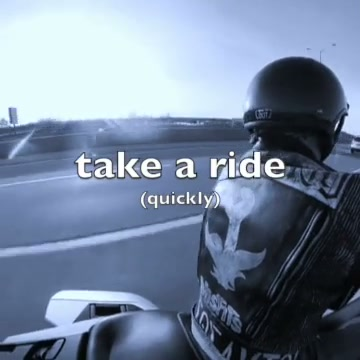
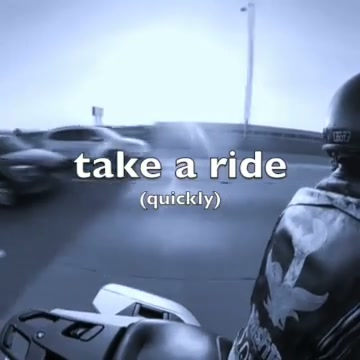
Recruiter review: 10 improvements to information hierarchy and UX
1. Hero headline: value prop ("I solve adoption problems") replaces name
2. Above-fold CTAs: "Let's Talk" + "See the Work" buttons in hero
3. Bio: merged two redundant paragraphs into one tight paragraph
4. LinkedIn: added to desktop nav
5. Subtitle: shortened to "Staff Product Designer"
6. Video poster: better frame at 3s showing road
7. Thios: relabeled as "Between-Roles Venture"
8. Flagship: Deere card gets accent left border
9. Experience: featured rows get bolder weight
10. Mobile: theme bar hidden (available in hamburger menu only)

diff --git a/styles.css b/styles.css
@@ -2908,6 +2908,114 @@ html:not([data-theme]) .theme-era-btn.active {
 }
 
 /* ========================================
+   Hero Name (smaller, above headline)
+   ======================================== */
+.hero-name {
+    font-family: var(--font-readable);
+    font-size: 12px;
+    letter-spacing: 0.2em;
+    color: var(--color-text-muted);
+    margin: 0 0 8px 0;
+    text-transform: uppercase;
+}
+
+/* ========================================
+   Hero CTA Buttons
+   ======================================== */
+.hero-cta-row {
+    display: flex;
+    gap: 12px;
+    margin: 20px 0 24px 0;
+    flex-wrap: wrap;
+}
+
+.hero-cta-primary {
+    display: inline-block;
+    font-family: var(--font-display);
+    font-size: 13px;
+    text-transform: uppercase;
+    letter-spacing: 1px;
+    padding: 12px 28px;
+    background-color: var(--color-primary);
+    color: var(--color-black);
+    border: var(--border-width) solid var(--color-primary);
+    text-decoration: none;
+    transition: all var(--transition-base);
+}
+
+.hero-cta-primary:hover {
+    background-color: var(--color-white);
+    color: var(--color-black);
+    box-shadow: var(--shadow-glow);
+    transform: translateY(-2px);
+}
+
+.hero-cta-secondary {
+    display: inline-block;
+    font-family: var(--font-display);
+    font-size: 13px;
+    text-transform: uppercase;
+    letter-spacing: 1px;
+    padding: 12px 28px;
+    background: transparent;
+    color: var(--color-text-primary);
+    border: var(--border-width) solid var(--color-text-muted);
+    text-decoration: none;
+    transition: all var(--transition-base);
+}
+
+.hero-cta-secondary:hover {
+    border-color: var(--color-primary);
+    color: var(--color-primary);
+    transform: translateY(-2px);
+}
+
+/* ========================================
+   Flagship Case Study Card
+   ======================================== */
+.case-study-flagship {
+    border-left: 4px solid var(--color-primary) !important;
+    position: relative;
+}
+
+.case-study-flagship .slide-label {
+    color: var(--color-primary) !important;
+    font-weight: 700;
+}
+
+/* ========================================
+   Experience Table — Featured Rows
+   ======================================== */
+.featured-role td {
+    font-weight: 600;
+}
+
+.featured-role td:first-child {
+    position: relative;
+}
+
+/* ========================================
+   LinkedIn Nav Link
+   ======================================== */
+.nav-linkedin {
+    opacity: 0.7;
+    transition: opacity var(--transition-fast);
+}
+
+.nav-linkedin:hover {
+    opacity: 1;
+}
+
+/* ========================================
+   Mobile: Hide theme bar, show in menu only
+   ======================================== */
+@media (max-width: 600px) {
+    .theme-era-bar {
+        display: none !important;
+    }
+}
+
+/* ========================================
    Pretext Layout Engine — Float Spacers
    ======================================== */
 .pretext-float {

diff --git a/themes/theme-2010s.css b/themes/theme-2010s.css
@@ -801,6 +801,60 @@
     background: transparent !important;
 }
 
+/* ---- Hero Name & CTAs ---- */
+[data-theme="2010s"] .hero-name {
+    color: #64748B;
+}
+
+[data-theme="2010s"] #title {
+    font-family: 'Inter', -apple-system, sans-serif !important;
+    color: #ffffff !important;
+    text-shadow: none !important;
+    font-weight: 800;
+    font-size: 28px;
+    letter-spacing: -0.02em;
+    line-height: 1.3;
+    background: linear-gradient(135deg, #ffffff 0%, #C4B5FD 100%);
+    -webkit-background-clip: text;
+    -webkit-text-fill-color: transparent;
+    background-clip: text;
+}
+
+[data-theme="2010s"] .hero-cta-primary {
+    background: linear-gradient(135deg, #635BFF 0%, #A855F7 100%);
+    color: #ffffff;
+    border: none;
+    border-radius: 10px;
+    font-family: 'Inter', -apple-system, sans-serif;
+    box-shadow: 0 4px 15px rgba(99, 91, 255, 0.25);
+}
+
+[data-theme="2010s"] .hero-cta-primary:hover {
+    box-shadow: 0 8px 25px rgba(99, 91, 255, 0.4);
+    color: #ffffff;
+}
+
+[data-theme="2010s"] .hero-cta-secondary {
+    border: 1px solid rgba(255, 255, 255, 0.15);
+    color: #CBD5E1;
+    border-radius: 10px;
+    font-family: 'Inter', -apple-system, sans-serif;
+}
+
+[data-theme="2010s"] .hero-cta-secondary:hover {
+    border-color: rgba(99, 91, 255, 0.4);
+    color: #ffffff;
+    background: rgba(255, 255, 255, 0.04);
+}
+
+[data-theme="2010s"] .case-study-flagship {
+    border-left: 3px solid #635BFF !important;
+}
+
+[data-theme="2010s"] .nav-linkedin {
+    color: #818CF8 !important;
+}
+
 /* Hide CRT border */
 [data-theme="2010s"] body::before {
     display: none !important;

diff --git a/themes/theme-2026.css b/themes/theme-2026.css
@@ -90,8 +90,47 @@
     color: #111111 !important;
     text-shadow: none !important;
     font-weight: 700;
-    font-size: 32px;
-    letter-spacing: -0.03em;
+    font-size: 24px;
+    letter-spacing: -0.02em;
+    line-height: 1.3;
+}
+
+[data-theme="2026"] .hero-name {
+    color: #999;
+    font-family: 'JetBrains Mono', monospace;
+    font-size: 11px;
+}
+
+[data-theme="2026"] .hero-cta-primary {
+    background-color: #0066FF;
+    color: #ffffff;
+    border: none;
+    border-radius: 4px;
+    font-family: 'JetBrains Mono', monospace;
+    font-size: 13px;
+}
+
+[data-theme="2026"] .hero-cta-primary:hover {
+    background-color: #0052cc;
+    color: #ffffff;
+}
+
+[data-theme="2026"] .hero-cta-secondary {
+    border: 1px solid #ddd;
+    border-radius: 4px;
+    color: #0066FF;
+    font-family: 'JetBrains Mono', monospace;
+    font-size: 13px;
+}
+
+[data-theme="2026"] .hero-cta-secondary:hover {
+    background-color: #0066FF;
+    border-color: #0066FF;
+    color: #ffffff;
+}
+
+[data-theme="2026"] .case-study-flagship {
+    border-left: 3px solid #0066FF !important;
 }
 
 [data-theme="2026"] #name a {

diff --git a/themes/theme-matrix.css b/themes/theme-matrix.css
@@ -584,6 +584,41 @@
 [data-theme="matrix"] .about-content > *:nth-child(3) { animation-delay: 0.3s; }
 [data-theme="matrix"] .about-content > *:nth-child(4) { animation-delay: 0.4s; }
 
+/* ---- Hero Name & CTAs ---- */
+[data-theme="matrix"] .hero-name {
+    color: #008020;
+}
+
+[data-theme="matrix"] .hero-cta-primary {
+    background: transparent;
+    border: 1px solid #00ff41;
+    color: #00ff41;
+    border-radius: 0;
+    font-family: 'JetBrains Mono', monospace;
+}
+
+[data-theme="matrix"] .hero-cta-primary:hover {
+    background: rgba(0, 255, 65, 0.1);
+    box-shadow: 0 0 12px rgba(0, 255, 65, 0.3);
+    color: #ffffff;
+}
+
+[data-theme="matrix"] .hero-cta-secondary {
+    border: 1px solid rgba(0, 255, 65, 0.3);
+    color: #00cc33;
+    border-radius: 0;
+    font-family: 'JetBrains Mono', monospace;
+}
+
+[data-theme="matrix"] .hero-cta-secondary:hover {
+    border-color: #00ff41;
+    color: #00ff41;
+}
+
+[data-theme="matrix"] .case-study-flagship {
+    border-left: 4px solid #00ff41 !important;
+}
+
 /* ---- Pretext-specific: flow spacers are invisible ---- */
 [data-theme="matrix"] .pretext-float {
     background: transparent !important;

diff --git a/index.php b/index.php
@@ -54,7 +54,7 @@
     <script async src="https://www.googletagmanager.com/gtag/js?id=G-QB3EL923YF"></script>
     <script src="analytics.js"></script>
 
-    <title>Peter Bartsch — Staff Product Designer | Enterprise Systems & Design Orgs</title>
+    <title>Peter Bartsch — Staff Product Designer | Enterprise Adoption & Design Orgs</title>
 
     <!-- Font Preloads -->
     <link rel="preload" href="rombyte.ttf" as="font" type="font/ttf" crossorigin>
@@ -158,6 +158,7 @@
                     <li><a href="#portfolio-carousel">CASES</a></li>
                     <li><a href="resume.php">RESUME</a></li>
                     <li><a href="#contact">CONTACT</a></li>
+                    <li><a href="https://linkedin.com/in/peterbartsch" target="_blank" rel="noopener noreferrer" class="nav-linkedin">LINKEDIN</a></li>
                 </ul>
             </nav>
             <button class="hamburger" id="hamburgerBtn" aria-label="Open menu" aria-expanded="false"
@@ -207,11 +208,16 @@
             <section id="hero" class="hero-section">
                 <div class="hero-layout">
                     <div class="hero-text">
-                        <h2 id="title" class="phosphor-text">PETER BARTSCH</h2>
-                        <p class="hero-subtitle">STAFF PRODUCT DESIGNER — ENTERPRISE SYSTEMS & DESIGN ORGS</p>
+                        <p class="hero-name">PETER BARTSCH</p>
+                        <h2 id="title" class="phosphor-text">I solve the adoption problems that stall enterprises.</h2>
+                        <p class="hero-subtitle">STAFF PRODUCT DESIGNER</p>
                         <p class="hero-tagline">
-                            Your hardest adoption problem is my best work. I've driven 500K users through forced platform migrations, unified 47 product lines into one system, and built the design orgs that ship at that scale.
+                            500K users through forced migrations. 47 product lines unified. $3.8B in revenue unlocked. Design orgs built from zero to scale.
                         </p>
+                        <div class="hero-cta-row">
+                            <a href="#contact" class="hero-cta-primary">Let's Talk</a>
+                            <a href="#portfolio-carousel" class="hero-cta-secondary">See the Work</a>
+                        </div>
                         <div class="hero-metrics">
                             <div class="hero-metric"><span class="hero-metric-value">500K+</span><span class="hero-metric-label">Users Through Forced Adoption</span></div>
                             <div class="hero-metric"><span class="hero-metric-value">$3.8B</span><span class="hero-metric-label">Revenue Unlocked</span></div>
@@ -240,10 +246,7 @@
                     <div class="about-content">
                         <h2 class="about-heading phosphor-text">WHAT I DO</h2>
                         <p class="about-bio">
-                            I take the design problems that stall enterprises — forced adoption, platform fragmentation, trust in uncertain data — and turn them into measurable outcomes. At John Deere, that meant $3.8B in enabled revenue and a design system used by 40+ teams. At FourKites, it meant building the design org from zero and contributing to a $1B+ valuation.
-                        </p>
-                        <p class="about-bio">
-                            15 years of enterprise systems at scale: forced adoption across 500K users, design orgs built from zero, and billion-dollar exits. I prototype in production-grade tools and ship end-to-end — strategy through code.
+                            I take the design problems that stall enterprises — forced adoption, platform fragmentation, trust in uncertain data — and turn them into measurable outcomes. $3.8B in revenue unlocked at Deere. Design org built from zero to $1B+ valuation at FourKites. 15 years shipping end-to-end, strategy through code.
                         </p>
                         <div class="about-strengths">
                             <span class="strength-tag">Enterprise Design Systems</span>
@@ -259,7 +262,7 @@
             <section id="portfolio-carousel" class="portfolio-carousel">
 
                 <!-- 1. Deere Common UX - Flagship: Forced adoption at scale -->
-                <article class="case-study-card">
+                <article class="case-study-card case-study-flagship">
                     <div class="case-study-image">
                         <picture><source srcset="carousel-thumb-deere-ux.webp" type="image/webp"><img src="carousel-thumb-deere-ux.png" alt="Deere Common UX" width="250" height="250"></picture>
                     </div>
@@ -332,8 +335,8 @@
                         <picture><source srcset="carousel-thumb-thios.webp" type="image/webp"><img src="carousel-thumb-thios.png" alt="Thios Project" loading="lazy" width="250" height="250"></picture>
                     </div>
                     <div class="case-study-body">
-                        <p class="slide-label">SIDE PROJECT — TECHNICAL RANGE</p>
-                        <h3 class="project-title">THIOS: FULL-STACK DESIGN, AI-AUGMENTED</h3>
+                        <p class="slide-label">BETWEEN-ROLES VENTURE — TECHNICAL RANGE</p>
+                        <h3 class="project-title">THIOS: SOLO-FOUNDER, AI-AUGMENTED</h3>
                         <div class="project-structure">
                             <p class="structure-item"><span class="structure-label">Challenge:</span> Between roles, I tested a hypothesis: can an experienced designer use AI to ship brand, web, 3D, and physical products at solo-founder velocity?</p>
                             <p class="structure-item"><span class="structure-label">Approach:</span> Used AI as a technical force multiplier — code, CAD, brand assets — to ship a complete product ecosystem</p>